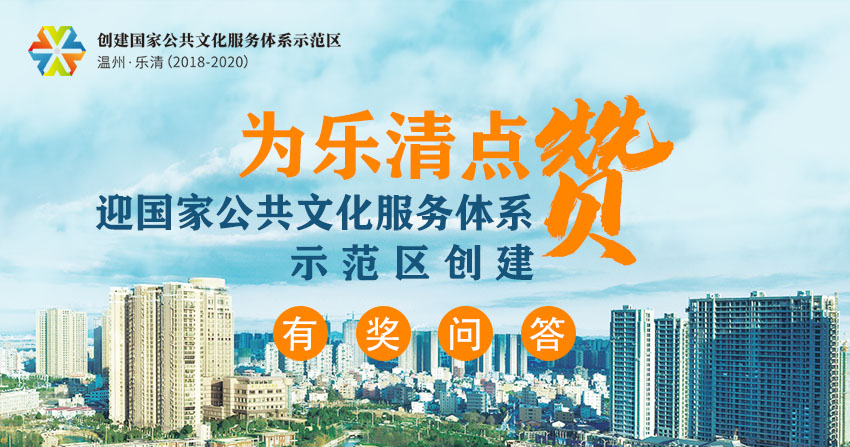
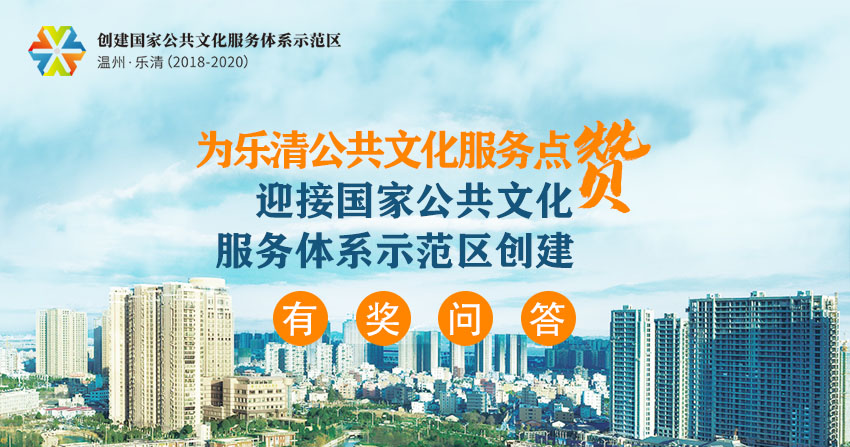
springboot profile modify

Changed region(s): [[0.0918, 0.2036, 0.9482, 0.8143]]

diff --git a/src/main/java/org/fjw/weixin/util/AllValus.java b/src/main/java/org/fjw/weixin/util/AllValus.java
@@ -90,7 +90,7 @@ public class AllValus {
     public static String daf_img="http://v.yqcn.com/yqfb/bl2/img/IMG_TOP7.jpg";
 
     public static String daf_lp_title="公共文化服务体系示范区创建问答活动";
-    public static String daf_lp_desc="为进一步推动公共文化服务广覆盖、高效能，构建基本完善的公共文化服务体系。乐清大力推进国家公共文化服务体系示范区创建工作，不断满足人民日益增长的美好生活需要，提升人民群众的幸福感和获得感，市文广旅体局联合乐清日报社开展有奖问答活动。";
+    public static String daf_lp_desc="为进一步推动公共文化服务全覆盖、高效能，构建基本完善的公共文化服务体系。乐清大力推进国家公共文化服务体系示范区创建工作，不断满足人民日益增长的美好生活需要，提升人民群众的幸福感和获得感，乐清市国家公共文化服务体系示范区创建办开展有奖问答活动。";
     public static String daf_lp_link="http://www.yqrb.com.cn/yqfb/bl4/index.jsp";
     public static String daf_lp_img="http://v.yqcn.com/yqfb/bl4/img/IMG_TOP3.png";
 
@@ -103,7 +103,7 @@ public class AllValus {
     public static String daf_p2="2020-04-21 00:00:00";
 
     //云云 健康局爱卫答题抽奖
-    public static int  lpgg1 = 9; //50话费 10份
+    public static int  lpgg1 = 10; //50话费 10份
     public static int  lpgg2 = 30; //30话费 30份
     public static int  lpgg3 = 50; //20元话费 50名
     public static int  lpgg4 = 210; //10元话费 210名
